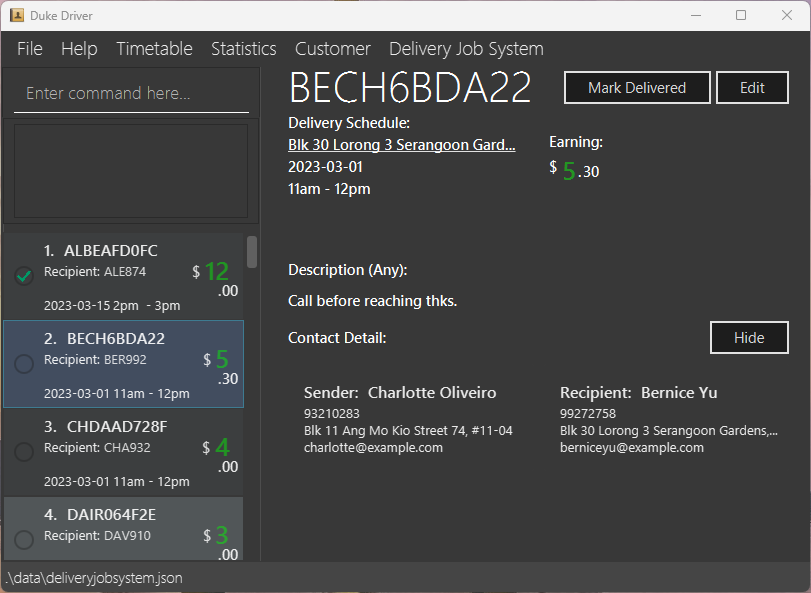
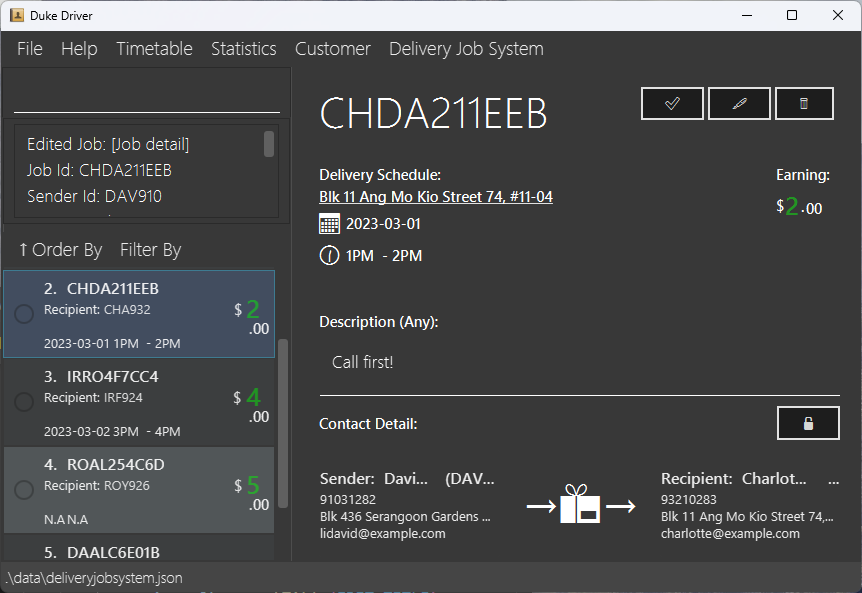
Update DG for delivery jobs

diff --git a/docs/UserGuide.md b/docs/UserGuide.md
@@ -6,7 +6,7 @@ title: User Guide
 Duke Driver is a desktop app for managing delivery jobs and contacts. If you are looking to perform better at your delivery job, Duke Driver can assist you to finish your daily tasks more efficiently, according to your requirements.
 
 * Table of Contents
-   *	Feature Tracks
+   *	Features
          * Delivery tasking management system:
             * View jobs
             * Add jobs individually
@@ -54,9 +54,9 @@ Duke Driver is a desktop app for managing delivery jobs and contacts. If you are
    * `list_job` : Lists all jobs.
    
    * `add n/John Doe p/98765432 e/johnd@example.com a/John street, block 123, #01-01` : Adds a contact named `John Doe` to the Address Book.
-   
+
    * `timetable` : Shows timetable of current week.
-   
+
    * `exit` : Exits the app.
 
 6. Refer to the [Features](#features) below for details of each command.
@@ -189,13 +189,20 @@ Alternative: Click on `Delivery Job System` in menu bar > `Create Job`. Fill in 
 * `SENDER_ID` and `RECEIPIENT_ID` **must be valid IDs** (i.e. must exist in address book).
 * Delivery date **must be in format YYYY-mm-DD**.
 * Delivery slot **must be a positive integer** and valid slots should be within the range from 1 to 5. 
-  * Slot 1: 10AM - 11AM, Slot 2: 11AM - 12PM, Slot 3: 1PM - 2PM, Slot 4: 2PM - 3PM, Slot 5: 3PM - 4PM.
-  * Delivery slots outside valid range will be classified as "Extra hours (4PM++)".
+* Slot 1: 10AM - 11AM, Slot 2: 11AM - 12PM, Slot 3: 1PM - 2PM, Slot 4: 2PM - 3PM, Slot 5: 3PM - 4PM.
+* Delivery slots outside valid range will be classified as "Extra hours (4PM++)".
 * Earning **must be a double**.
 
 Examples:
 * `add_job si/ALE874 ri/DAV910 date/2023-03-01 slot/3`
 * `add_job si/ALE874 ri/DAV910 date/2023-03-01 slot/3 earn/20`
+
+GUI Mode:  
+![add job](images/addJob.png)
+<div markdown="span" class="alert alert-primary">:bulb: **Tip:**
+Description field is only available in GUI mode.
+</div>
+
 
 ### 2.2. Mass importing jobs
 
@@ -213,13 +220,67 @@ Shows a list of all jobs in the delivery job system in Main Window.
 
 Format: `list_job`
 
-### 2.3. Listing all customers : `list`
+GUI Mode:
+![list job](images/listJob.png)
 
-Switch to Customer Window.
-Shows a list of all persons/customers in the address book in Customer Window.
+### 2.3.1. Sort and filter jobs
+GUI Mode Only:  
+![sort filter job](images/listJobSortFilter.png)
 
-Format: `list`
+### 2.4. Edit jobs : `edit_job`
 
+Edit a selected job by Index or Job id.
+
+Format: `edit_job INDEX (must be a positive integer) | [ji/Job Id] [si/Sender Id] [ri/Recipient] [date/Date] [slot/Slot] [earn/Earn] [done/t | f]...`
+* The index must be a positive integer 1, 2, 3, ...
+* Refer to `list_job` for argument constrains.
+
+Examples:
+* `edit_job 1 slot/4`
+* `edit_job 1 date/2023-03-01`
+* `edit_job ji/<job_id> si/ALE874 ri/DAV910 date/2023-03-01 slot/3 earn/20`
+
+GUI Mode:  
+![edit job](images/editJob.png)
+
+### 2.5. Mark job as in/complete : `com_job` | `uncom_job`
+
+Mark a job as completed or not completed.
+
+Complete Format: `com_job <job id>`
+Incomplete Format: `uncom_job <job id>`
+
+* `com_job ALBE1989C9`
+* `uncom_job ALBE1989C9`
+
+GUI Mode:  
+![complete job](images/comJob.png)
+
+### 2.6. Find job : `find_job`
+
+Find a job that matches all supplied query options.
+
+Format: `find_job [ji/JOB_ID] [si/SENDER_ID] [ri/RECEIPIENT_ID] [date/DELIVERY_DATE] [slot/DELIVERY_SLOT] [earn/EARNING] [done/ t | f]`
+* Refer to `list_job` for argument constrains.
+
+Examples:
+* `find_job ji/<job_id>`
+* `find_job date/2023-03-01 slot/4`
+* `find_job ji/<job_id> si/ALE874 ri/DAV910 date/2023-03-01 slot/3 earn/20`
+
+### 2.7. Delete job : `delete_job`
+
+Deletes a job from the system.  
+Support `del` key in job list.
+
+Format: `delete_job <job_id>`
+* The job id must be **valid**.
+
+Examples:
+* `delete_job <job_id>`
+
+GUI Mode:  
+![delete job](images/delJob.png)
 
 ## 3. Features available for Reminders
 ### *Can only access from Main Window*
@@ -363,6 +424,12 @@ If your changes to the data file makes its format invalid, AddressBook will disc
 | ***(B)* List Customer**               | `list` <br/>Or<br/>Click on `Customers` in menu bar > `Address Book` then input `list`                                                                                                                                                  |
 | ***(M)* Add Job**                     | `add_job si/SENDER_ID ri/RECEIPIENT_ID [date/DELIVERY_DATE] [slot/DELIVERY_SLOT] [earn/EARNING]` <br> e.g., `add_job si/ALE874 ri/DAV910 date/2023-03-01 slot/3 earn/20`                                                               |
 | ***(M)* Import Jobs**                 | click on `Delivery Job System` in menu bar > `Import Jobs` > select CSV file containing jobs to be imported > `open`                                                                                                                   |
+| ***(M)* List Job**                     | `list_job`                                                     |
+| ***(M)* Edit Job**                     | `edit_job INDEX \| [ji/Job Id] [si/Sender Id] [ri/Recipient] [date/Date] [slot/Slot] [earn/Earn] [done/t \| f]...`                                                               |
+| ***(M)* Complete Job**                     | `com_job <job id>`                                                     |
+| ***(M)* UnComplete Job**                     | `uncom_job <job id>`                                                            |
+| ***(M)* Find Job**                     | `find_job [ji/JOB_ID] [si/SENDER_ID] [ri/RECEIPIENT_ID] [date/DELIVERY_DATE] [slot/DELIVERY_SLOT] [earn/EARNING] [done/ t \| f]`                               |
+| ***(M)* Delete Job**                     | `delete_job <job_id>`<br/>OR<br/>Select from job list > press `del`                                                           |
 | ***(M)* List reminder**               | `list_reminder`                                                                                                                                                                                                                        |
 | ***(M)* Add reminder**                | `add_reminder d/DESCRIPTION time/YYY-MM-DD HH:mm` <br> e.g.,`add_reminder d/Submit homework time/2023-12-12 12:00`                                                                                                                     |
 | ***(M)* Delete reminder**             | `delete_reminder INDEX` <br> e.g., `delete_reminder 3`                                                                                                                                                                                 |
@@ -372,5 +439,3 @@ If your changes to the data file makes its format invalid, AddressBook will disc
 | ***(M)* Show List of Unscheduled Jobs** | `timetable_unscheduled`<br/>OR<br/>Click on `Timetable` in menu bar > `Unscheduled Jobs`                                                                                                                                               |
 | ***(B)* Help**                        | `help`<br/>Or<br/>Click on `Help` in menu bar > `Help`                                                                                                                                                                                 |
 | ***(B)* Exit**                        | `exit`<br/>Or<br/>Click on `Exit` in menu bar > `Exit`                                                                                                                                                                                 |
-
-

diff --git a/docs/index.md b/docs/index.md
@@ -1,16 +1,16 @@
 ---
 layout: page
-title: AddressBook Level-3
+title: Duke Driver
 ---
 
-[![CI Status](https://github.com/se-edu/addressbook-level3/workflows/Java%20CI/badge.svg)](https://github.com/se-edu/addressbook-level3/actions)
-[![codecov](https://codecov.io/gh/se-edu/addressbook-level3/branch/master/graph/badge.svg)](https://codecov.io/gh/se-edu/addressbook-level3)
+[![CI Status](https://github.com/AY2223S2-CS2103-F11-2/tp/workflows/Java%20CI/badge.svg)](https://github.com/AY2223S2-CS2103-F11-2/tp/actions)
+[![codecov](https://codecov.io/gh/se-edu/addressbook-level3/branch/master/graph/badge.svg)](https://github.com/nus-cs2103-AY2223S2/tp/pull/119)
 
 ![Ui](images/Ui.png)
 
 **AddressBook is a desktop application for managing your contact details.** While it has a GUI, most of the user interactions happen using a CLI (Command Line Interface).
 
-* If you are interested in using AddressBook, head over to the [_Quick Start_ section of the **User Guide**](UserGuide.html#quick-start).
+* If you are interested in using Duke Driver, head over to the [_Quick Start_ section of the **User Guide**](UserGuide.html#quick-start).
 * If you are interested about developing AddressBook, the [**Developer Guide**](DeveloperGuide.html) is a good place to start.
 
 
